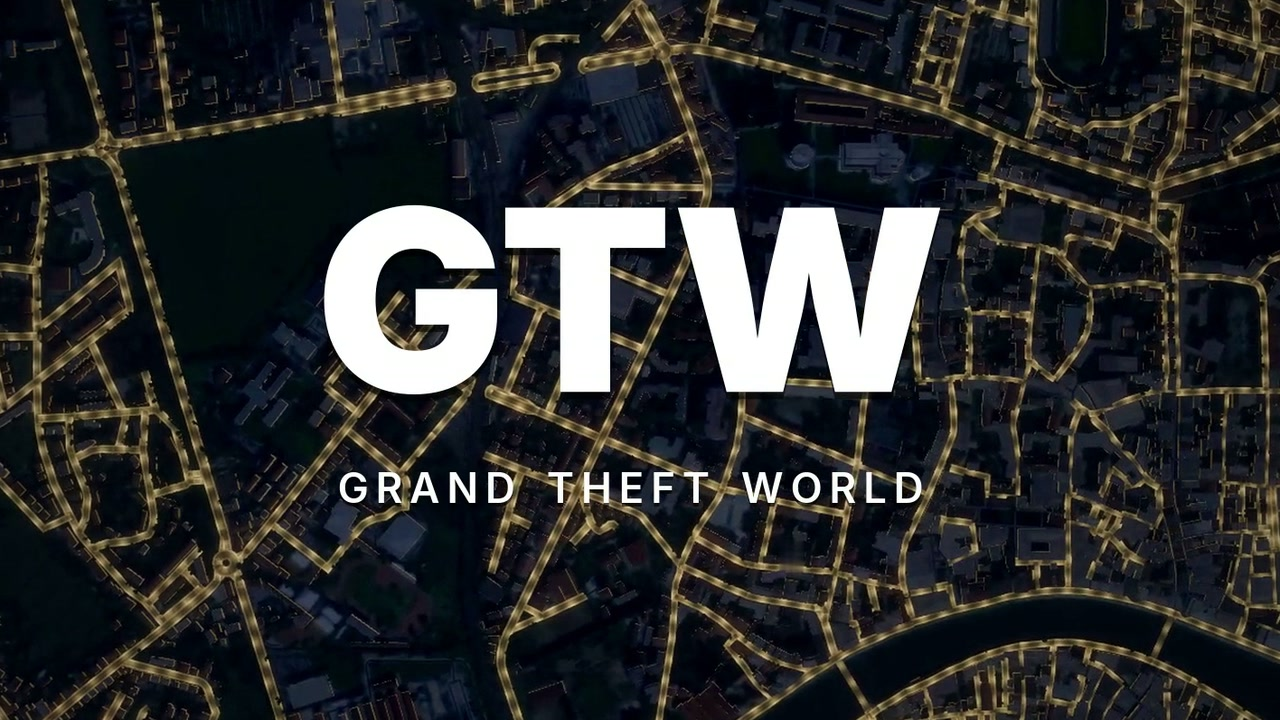
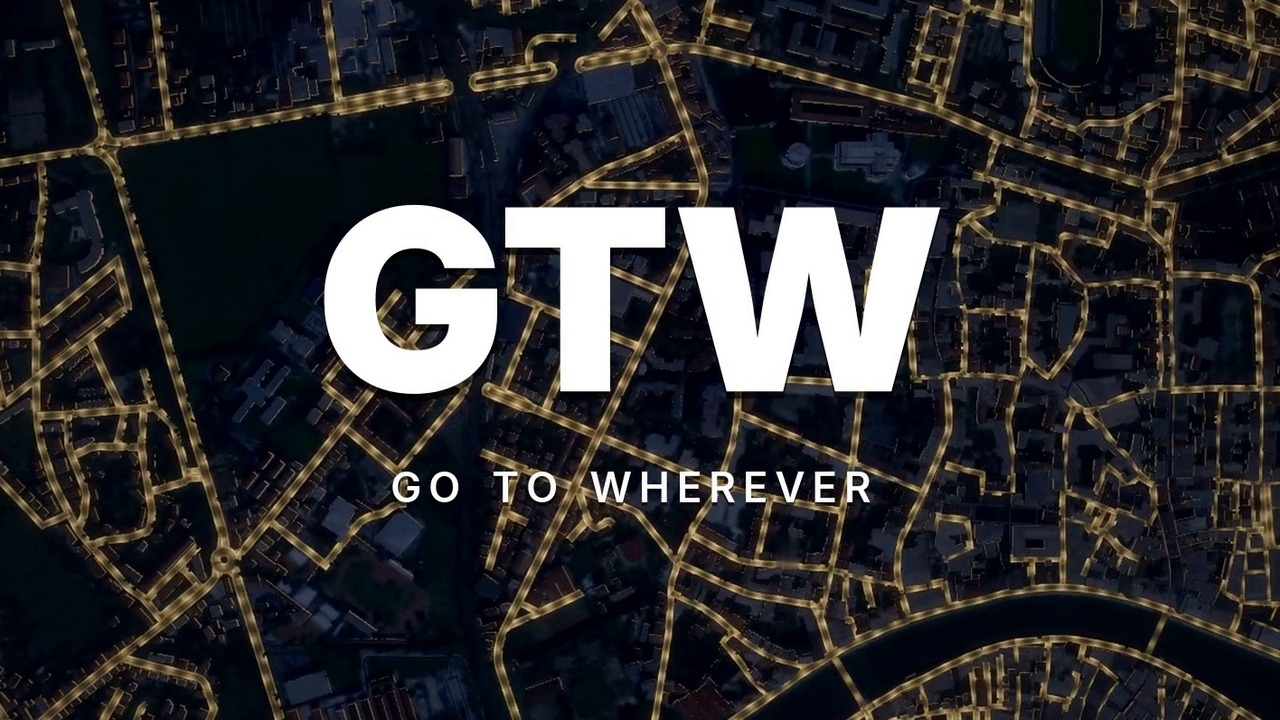
docs(gtw): rebrand to Go To Wherever and update the trailer
Rename the README and AGENTS project name from Grand Theft World to Go
To Wherever, and point both trailer links at the new cut
(https://www.youtube.com/watch?v=erKL1zDbxv0). The new cut is 45 s.

Replace the README poster with the matching title-card frame from
gtw-trailer-cut8.mp4, cropped at 1280x720 to keep the same map framing
and GTW placement as the old image, now showing the GO TO WHEREVER
subtitle.

Verified no remaining Grand Theft World or old trailer references.

diff --git a/README.md b/README.md
@@ -1,6 +1,6 @@
 <div align="center">
 
-# GTW — Grand Theft World
+# GTW — Go To Wherever
 
 ### An open-world sandbox on the real Earth: walk, drive, fly, and fight
 
@@ -18,9 +18,9 @@ Spawn anywhere on the planet, cross surface-aware terrain on foot, take a parked
 
 <div align="center">
 
-[![GTW — Grand Theft World trailer](docs/media/trailer.jpg)](https://youtu.be/bpeJLpqGnRM)
+[![GTW — Go To Wherever trailer](docs/media/trailer.jpg)](https://www.youtube.com/watch?v=erKL1zDbxv0)
 
-[Watch the trailer on YouTube](https://youtu.be/bpeJLpqGnRM) (49 s, 1080p)
+[Watch the trailer on YouTube](https://www.youtube.com/watch?v=erKL1zDbxv0) (45 s, 1080p)
 
 </div>
 

diff --git a/AGENTS.md b/AGENTS.md
@@ -1,6 +1,6 @@
 # Agent instructions for GTW
 
-These instructions apply throughout this repository. GTW (Grand Theft World) is a fork of FableFlight: an open-world sandbox on the real Earth where the player walks, drives, flies, and fights. Keep the upstream aircraft rules below for every flight change.
+These instructions apply throughout this repository. GTW (Go To Wherever) is a fork of FableFlight: an open-world sandbox on the real Earth where the player walks, drives, flies, and fights. Keep the upstream aircraft rules below for every flight change.
 
 ## Project scope
 
